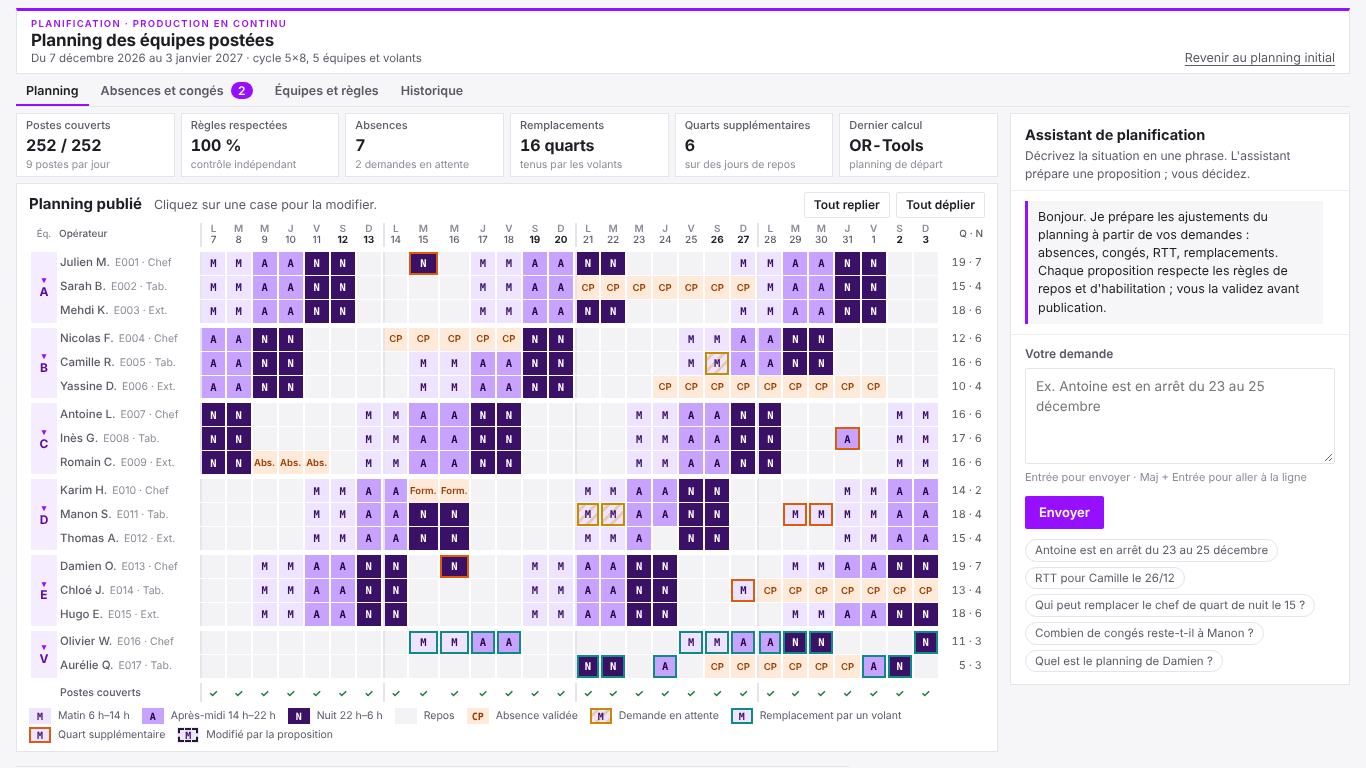
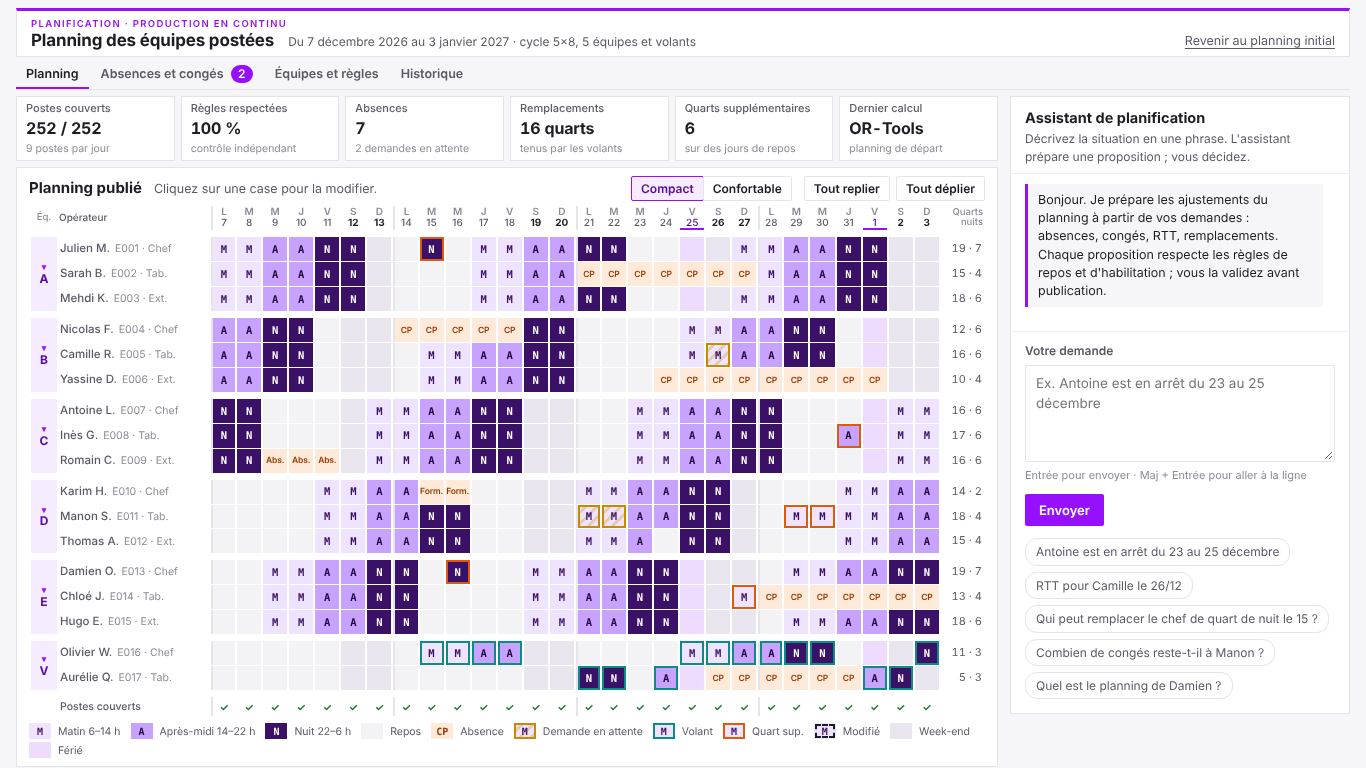
Planning interactif : mise en forme plus aérée et mode d'affichage confortable
- Équipes mieux séparées, lignes un peu plus hautes, colonnes de jours de largeur
  identique ; le mois tient toujours sur un écran de 1366 x 768.
- Week-ends grisés et jours fériés (25/12, 1/1) repérés dans la grille.
- Légende sur une ligne, colonne « Quarts / nuits » explicite, période sur la
  ligne du titre.
- Panneau de l'assistant aligné sur la hauteur de l'écran, exemples mieux espacés.
- Boutons « Compact / Confortable » : le mode confortable agrandit textes et
  cases pour un grand écran ou une projection (choix mémorisé dans le navigateur).

Claude-Session: https://claude.ai/code/session_01VkNdSZ3HyLFw46DejwsYKq

diff --git a/docs/interactif/style.css b/docs/interactif/style.css
@@ -25,7 +25,8 @@ h1, h2, h3 { text-wrap: balance; }
           background: var(--carte); border: 1px solid var(--bord); border-top: 3px solid var(--violet); padding: 6px 14px; }
 .surtitre { margin: 0; color: var(--violet); font-size: 9.5px; font-weight: 600; letter-spacing: .14em; text-transform: uppercase; }
 h1 { margin: 0; font-size: 17px; font-weight: 650; letter-spacing: -.01em; line-height: 1.15; }
-.sous-titre { margin: 0; color: var(--texte2); font-size: 11.5px; }
+.sous-titre { margin: 0; color: var(--texte2); font-size: 12px; }
+.titre-ligne { display: flex; align-items: baseline; gap: 2px 14px; flex-wrap: wrap; }
 .lien-discret { background: none; border: 0; color: var(--texte2); text-decoration: underline; text-underline-offset: 3px; font-size: 12.5px; padding: 0; }
 
 /* Onglets */
@@ -86,6 +87,7 @@ h1 { margin: 0; font-size: 17px; font-weight: 650; letter-spacing: -.01em; line-
 .col-nom { position: sticky; left: 0; background: var(--carte); text-align: left; white-space: nowrap; padding-right: 8px; z-index: 1; font-weight: 500; color: var(--texte); font-size: 11.5px; line-height: 1.2; }
 .col-nom small { color: var(--texte3); font-size: 10.5px; font-weight: 400; margin-left: 5px; }
 .col-total { text-align: right; white-space: nowrap; padding-left: 8px; font-variant-numeric: tabular-nums; color: var(--texte2); font-size: 11px; }
+.grille thead .col-total { font-size: 9.5px; line-height: 1.1; color: var(--texte3); }
 .col-eq { position: sticky; left: 0; z-index: 2; width: 26px; min-width: 26px; padding: 0; background: var(--violet-pale); text-align: center; vertical-align: middle; }
 .grille thead .col-eq { background: var(--carte); font-size: 9.5px; color: var(--texte3); }
 tr.couverture .col-eq { background: var(--carte); }
@@ -93,18 +95,21 @@ tr.couverture .col-eq { background: var(--carte); }
 .bascule { width: 100%; height: 100%; background: none; border: 0; padding: 2px 0; color: var(--violet-fonce); font-weight: 700; font-size: 12px; line-height: 1.1; }
 .bascule::before { content: "▾"; display: block; font-size: 9px; color: var(--violet); }
 .bascule[aria-expanded="false"]::before { content: "▸"; }
-tr.espace td { height: 3px; padding: 0; }
+tr.espace td { height: 5px; padding: 0; }
 tr.replie th, tr.replie td { height: 18px; }
 .outils-grille { display: flex; gap: 6px; flex-wrap: wrap; margin: 0 0 0 auto; }
 .titre-grille { display: flex; align-items: baseline; gap: 4px 12px; flex-wrap: wrap; margin-bottom: 4px; }
 .titre-grille h2, .titre-grille .note { margin: 0; }
-.grille td.case { height: 18px; min-width: 22px; padding: 0; text-align: center; }
-.case button { width: 100%; height: 100%; min-height: 18px; border: 0; background: transparent; font: 600 10.5px/1 var(--police-mono); padding: 0; color: inherit; }
+.grille td.case { height: 19px; min-width: 22px; padding: 0; text-align: center; }
+.case button { width: 100%; height: 100%; min-height: 19px; border: 0; background: transparent; font: 600 10.5px/1 var(--police-mono); padding: 0; color: inherit; }
 .case button:hover { box-shadow: inset 0 0 0 2px var(--violet); }
 .qM { background: var(--qM); color: #3a1166; }
 .qA { background: var(--qA); color: #24073f; }
 .qN { background: var(--qN); color: var(--qN-texte); }
 .repos { background: var(--repos); }
+.repos.we { background: #e9e6f0; }
+.repos.ferie { background: #eedcff; }
+.grille thead th.ferie { color: var(--violet-fonce); box-shadow: inset 0 -2px 0 var(--violet); }
 .absence { background: var(--abs); color: var(--abs-texte); }
 .absence button { font-family: var(--police); font-size: 9.5px; }
 .volant { box-shadow: inset 0 0 0 2px var(--volant); }
@@ -116,7 +121,7 @@ tr.couverture td { text-align: center; font-weight: 700; }
 .ok { color: var(--ok); }
 .manque-cellule { color: #fff; background: var(--alerte); }
 
-.legende { list-style: none; display: flex; flex-wrap: wrap; gap: 3px 12px; padding: 0; margin: 5px 0 0; font-size: 10.5px; color: var(--texte2); }
+.legende { list-style: none; display: flex; flex-wrap: wrap; gap: 3px 10px; padding: 0; margin: 6px 0 0; font-size: 10.5px; color: var(--texte2); }
 .legende li { display: flex; align-items: center; gap: 7px; }
 .legende span { display: inline-flex; align-items: center; justify-content: center; width: 22px; height: 16px; font: 600 10px var(--police-mono); }
 
@@ -146,8 +151,8 @@ input:focus, select:focus, textarea:focus { border-color: var(--violet); outline
 
 /* Assistant */
 .assistant { background: var(--carte); border: 1px solid var(--bord); display: flex; flex-direction: column;
-             position: sticky; top: 12px; max-height: calc(100vh - 24px); min-width: 0; }
-@media (max-width: 1180px) { .assistant { position: static; max-height: none; } }
+             position: sticky; top: 8px; height: calc(100vh - 150px); min-height: 440px; min-width: 0; }
+@media (max-width: 1180px) { .assistant { position: static; height: auto; min-height: 0; } }
 .assistant-entete { padding: 10px 14px 8px; border-bottom: 1px solid var(--ligne); }
 .assistant-entete h2 { margin: 0; font-size: 14.5px; }
 .assistant-entete p { margin: 2px 0 0; color: var(--texte2); font-size: 12px; }
@@ -161,8 +166,8 @@ input:focus, select:focus, textarea:focus { border-color: var(--violet); outline
 .saisie textarea { width: 100%; min-height: 84px; resize: vertical; font-size: 13.5px; line-height: 1.45; padding: 8px 10px; }
 .saisie-pied { display: flex; justify-content: space-between; align-items: center; gap: 10px; flex-wrap: wrap; }
 .astuce-clavier { font-size: 11px; color: var(--texte3); }
-.exemples { display: flex; flex-wrap: wrap; gap: 5px; padding: 0 14px 12px; }
-.exemples button { background: var(--carte); border: 1px solid var(--bord); border-radius: 12px; padding: 2px 9px; font-size: 11.5px; color: var(--texte2); text-align: left; }
+.exemples { display: flex; flex-wrap: wrap; gap: 6px; padding: 2px 14px 14px; }
+.exemples button { background: var(--carte); border: 1px solid var(--bord); border-radius: 12px; padding: 4px 10px; font-size: 12px; color: var(--texte2); text-align: left; }
 .exemples button:hover { border-color: var(--violet); color: var(--violet-fonce); }
 
 /* Fenêtre de modification d'une case */
@@ -180,3 +185,33 @@ dialog h2 { margin: 0 0 12px; font-size: 18px; }
   .changements li, .historique li { grid-template-columns: 1fr; gap: 2px; }
 }
 @media (prefers-reduced-motion: reduce) { * { transition: none !important; } }
+
+/* Boutons de densité */
+.groupe-boutons { display: inline-flex; margin-right: 6px; }
+.groupe-boutons button + button { margin-left: -1px; }
+.groupe-boutons button[aria-pressed="true"] { background: var(--violet-pale); border-color: var(--violet); color: var(--violet-fonce); }
+
+/* Affichage confortable : grand écran ou projection en réunion */
+body.confortable { font-size: 15px; }
+body.confortable h1 { font-size: 22px; }
+body.confortable .kpi .valeur { font-size: 21px; }
+body.confortable .kpi h3 { font-size: 12.5px; }
+body.confortable .grille { font-size: 12.5px; border-spacing: 3px 2px; }
+body.confortable .grille td.case, body.confortable .case button { height: 28px; min-height: 28px; }
+body.confortable .case button { font-size: 12px; }
+body.confortable .col-nom { font-size: 13px; }
+body.confortable .col-nom small { font-size: 11.5px; }
+body.confortable tr.espace td { height: 10px; }
+body.confortable .legende { font-size: 12px; gap: 6px 16px; }
+body.confortable .legende span { width: 28px; height: 20px; font-size: 11px; }
+body.confortable .bulle { font-size: 14px; }
+
+/* Colonnes de jours de largeur identique */
+.grille { table-layout: fixed; }
+.grille thead .col-eq { width: 26px; }
+.grille thead .col-nom { width: 150px; }
+.grille thead .col-total { width: 42px; }
+.case button { overflow: hidden; white-space: nowrap; }
+.absence button { font-size: 8.5px; letter-spacing: -.02em; }
+body.confortable .grille thead .col-nom { width: 180px; }
+body.confortable .absence button { font-size: 10px; }

diff --git a/docs/interactif/app.js b/docs/interactif/app.js
@@ -34,6 +34,10 @@
   const ABREGE = { CHEF_QUART: "Chef", OP_TABLEAU: "Tab.", OP_EXTERIEUR: "Ext." };
   let replies = new Set();
   try { replies = new Set(JSON.parse(localStorage.getItem(CLE_REPLIES) || "[]")); } catch (err) { /* sans mémoire */ }
+  const CLE_DENSITE = "planning-postes-densite";
+  let densite = "compact";
+  try { densite = localStorage.getItem(CLE_DENSITE) === "confortable" ? "confortable" : "compact"; } catch (err) { /* compact */ }
+  const appliquerDensite = () => document.body.classList.toggle("confortable", densite === "confortable");
   const memoriserReplies = () => { try { localStorage.setItem(CLE_REPLIES, JSON.stringify([...replies])); } catch (err) { /* rien */ } };
   const messages = [];
 
@@ -266,6 +270,10 @@
           <h2>${p ? "Planning proposé, non publié" : "Planning publié"}</h2>
           <p class="note">Cliquez sur une case pour la modifier.</p>
           <div class="outils-grille">
+            <span class="groupe-boutons" role="group" aria-label="Affichage">
+              <button type="button" class="secondaire petit" data-action="densite" data-valeur="compact" aria-pressed="${densite === "compact"}">Compact</button>
+              <button type="button" class="secondaire petit" data-action="densite" data-valeur="confortable" aria-pressed="${densite === "confortable"}">Confortable</button>
+            </span>
             <button type="button" class="secondaire petit" data-action="replier-tout">Tout replier</button>
             <button type="button" class="secondaire petit" data-action="deplier-tout">Tout déplier</button>
           </div>
@@ -275,21 +283,24 @@
           <table class="grille"><thead><tr>${entete(ctx)}</tr></thead><tbody>${lignes(ctx, donnees, plan, ind, anomalies, modifies, affichees)}</tbody></table>
         </div>
         <ul class="legende">
-          ${Object.entries(donnees.quarts).map(([q, d]) => `<li><span class="q${q}">${q}</span>${e(d.libelle)} ${e(d.horaire)}</li>`).join("")}
+          ${Object.entries(donnees.quarts).map(([q, d]) => `<li><span class="q${q}">${q}</span>${e(d.libelle)} ${e(d.horaire.replace(/ h–/, "–"))}</li>`).join("")}
           <li><span class="repos"></span>Repos</li>
-          <li><span class="absence">CP</span>Absence validée</li>
+          <li><span class="absence">CP</span>Absence</li>
           <li><span class="qM attente">M</span>Demande en attente</li>
-          <li><span class="qM volant">M</span>Remplacement par un volant</li>
-          <li><span class="qM sup">M</span>Quart supplémentaire</li>
-          <li><span class="qM modifie">M</span>Modifié par la proposition</li>
+          <li><span class="qM volant">M</span>Volant</li>
+          <li><span class="qM sup">M</span>Quart sup.</li>
+          <li><span class="qM modifie">M</span>Modifié</li>
+          <li><span class="repos we"></span>Week-end</li>
+          <li><span class="repos ferie"></span>Férié</li>
         </ul>
       </div>`;
   }
   function entete(ctx) {
     return `<th class="col-eq" scope="col" title="Équipe">Éq.</th><th class="col-nom" scope="col">Opérateur</th>` + ctx.jours.map((j) => {
       const js = M.jourSemaine(j);
-      return `<th scope="col" class="${js === 0 || js === 6 ? "we" : ""}${js === 1 ? " lundi" : ""}" title="${e(dateLongue(j))}"><span>${LETTRES[js]}</span>${Number(j.slice(8))}</th>`;
-    }).join("") + `<th class="col-total" scope="col" title="Quarts travaillés · dont nuits">Q · N</th>`;
+      const ferie = (ctx.donnees.feries || []).includes(j);
+      return `<th scope="col" class="${js === 0 || js === 6 ? "we" : ""}${js === 1 ? " lundi" : ""}${ferie ? " ferie" : ""}" title="${e(dateLongue(j))}${ferie ? " · jour férié" : ""}"><span>${LETTRES[js]}</span>${Number(j.slice(8))}</th>`;
+    }).join("") + `<th class="col-total" scope="col" title="Quarts travaillés sur le mois, dont nuits">Quarts<br>nuits</th>`;
   }
   function lignes(ctx, donnees, plan, ind, anomalies, modifies, affichees) {
     const equipes = [...new Set(donnees.collaborateurs.map((c) => c.equipe))].sort((a, b) => (a === "VOLANT") - (b === "VOLANT") || (a < b ? -1 : 1));
@@ -308,7 +319,8 @@
       }
       membres.forEach((c, rang) => {
         const cases = ctx.jours.map((j) => {
-          const lundi = M.jourSemaine(j) === 1 ? " lundi" : "";
+          const js = M.jourSemaine(j);
+          const lundi = (js === 1 ? " lundi" : "") + (js === 0 || js === 6 ? " we" : "") + ((donnees.feries || []).includes(j) ? " ferie" : "");
           const k = M.cle(c.id, j);
           const absV = absenceDu(c.id, j, affichees, ["validee"]);
           const absA = absV ? null : absenceDu(c.id, j, affichees, ["en_attente"]);
@@ -612,6 +624,11 @@
         memoriserReplies(); rendrePlanning();
         break;
       }
+      case "densite":
+        densite = el.dataset.valeur === "confortable" ? "confortable" : "compact";
+        try { localStorage.setItem(CLE_DENSITE, densite); } catch (err) { /* rien */ }
+        appliquerDensite(); rendrePlanning();
+        break;
       case "replier-tout": etat.donnees.collaborateurs.forEach((c) => replies.add(c.equipe)); memoriserReplies(); rendrePlanning(); break;
       case "deplier-tout": replies.clear(); memoriserReplies(); rendrePlanning(); break;
       case "valider-prop": validerProposition(); break;
@@ -696,6 +713,7 @@
   // ------------------------------------------------------------------ démarrage
   if (!charger()) { initialiser(); enregistrer(); }
   $("#exemples").innerHTML = EXEMPLES.map((t) => `<button type="button" data-action="exemple" data-texte="${e(t)}">${e(t)}</button>`).join("");
+  appliquerDensite();
   accueil();
   rendreTout();
   window.__planning = { etat: () => etat, traiterDemande };

diff --git a/docs/interactif/index.html b/docs/interactif/index.html
@@ -8,19 +8,21 @@
   <link rel="preconnect" href="https://fonts.googleapis.com">
   <link rel="preconnect" href="https://fonts.gstatic.com" crossorigin>
   <link rel="stylesheet" href="https://fonts.googleapis.com/css2?family=Geist:wght@400;500;600;700&family=Geist+Mono:wght@500&display=swap">
-  <link rel="stylesheet" href="style.css?v=2026-11-06b">
-  <script src="donnees.js?v=2026-11-06b" defer></script>
-  <script src="moteur.js?v=2026-11-06b" defer></script>
-  <script src="assistant.js?v=2026-11-06b" defer></script>
-  <script src="app.js?v=2026-11-06b" defer></script>
+  <link rel="stylesheet" href="style.css?v=2026-11-06e">
+  <script src="donnees.js?v=2026-11-06e" defer></script>
+  <script src="moteur.js?v=2026-11-06e" defer></script>
+  <script src="assistant.js?v=2026-11-06e" defer></script>
+  <script src="app.js?v=2026-11-06e" defer></script>
 </head>
 <body>
   <div class="page">
     <header class="entete">
       <div>
         <p class="surtitre">Planification · Production en continu</p>
-        <h1>Planning des équipes postées</h1>
-        <p class="sous-titre" id="periode"></p>
+        <div class="titre-ligne">
+          <h1>Planning des équipes postées</h1>
+          <p class="sous-titre" id="periode"></p>
+        </div>
       </div>
       <button type="button" class="lien-discret" id="reinitialiser">Revenir au planning initial</button>
     </header>

diff --git a/docs/interactif/donnees.js b/docs/interactif/donnees.js
@@ -52,6 +52,7 @@ const DONNEES_PLANNING = {
   "max_nuits_consecutives": 3,
   "max_quarts_horizon": 20
  },
+ "feries": ["2026-12-25", "2027-01-01"],
  "transitions_interdites": [
   [
    "A",

diff --git a/scripts/generer_donnees_interactif.py b/scripts/generer_donnees_interactif.py
@@ -113,6 +113,7 @@ def main() -> None:
         "cycle": regles["cycle"],
         "regles": regles["regles_dures"],
         "transitions_interdites": [["A", "M"], ["N", "M"], ["N", "A"]],
+        "feries": ["2026-12-25", "2027-01-01"],                     # affichage : jours fériés majorés
         "besoins": {q: {p: 1 for p in HABILITATIONS} for q in "MAN"},
         "types_absence": {
             "CP": {"libelle": "Congés payés", "court": "CP", "compteur": "CP", "sur_demande": True},
